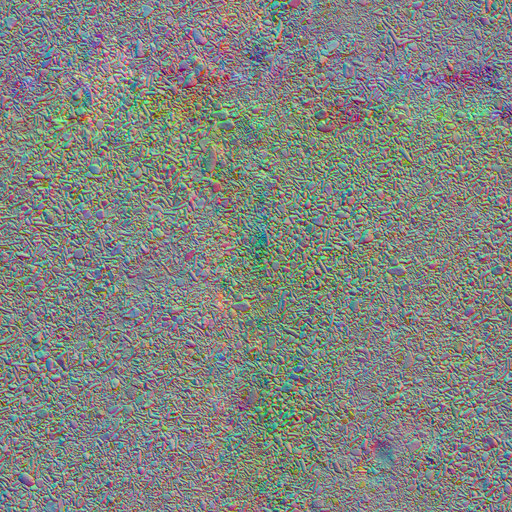
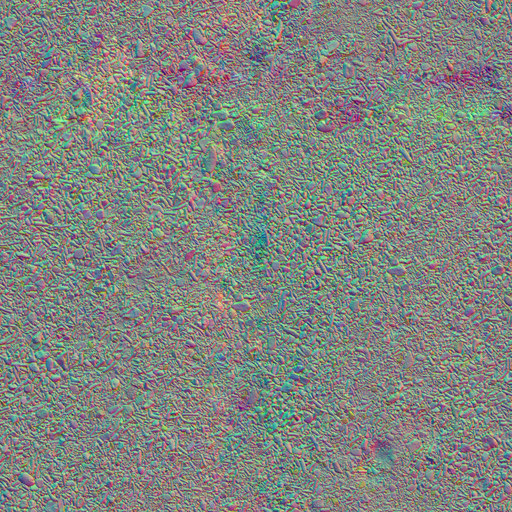
Break up repeating sand patches and soften distant caustics

diff --git a/demos/broadside/src/render/landfallMaterials/terrain.ts b/demos/broadside/src/render/landfallMaterials/terrain.ts
@@ -52,6 +52,11 @@ class GroundScans extends MaterialPluginBase {
         vec2 bend = vec2(sin(p.z * .36 + p.x * .14), sin(p.x * .32 - p.z * .13)) * .11;
         vec2 ground = p.xz + bend;
         vec3 beach = texture2D(beachScan, ground * .46).rgb;
+        mat2 turn = mat2(.6,.8,-.8,.6);
+        vec3 secondBeach = texture2D(beachScan, turn * ground * .33 + 1.73).rgb;
+        secondBeach.rg = (secondBeach.rg - .5) * turn + .5;
+        float borrow = .38 + .21*sin(p.x*.31 + .7*sin(p.z*.36));
+        beach = mix(beach, secondBeach, borrow);
         vec3 turf = texture2D(turfScan, ground * .66).rgb;
         vec3 snow = texture2D(snowScan, ground * .27).rgb;
         // Three planes keep fractures legible even on vertical quarry faces.
@@ -63,7 +68,8 @@ class GroundScans extends MaterialPluginBase {
         vec3 rock = weights.x * rockX + weights.y * rockY + weights.z * rockZ;
         vec4 w = vGroundCover;
         float tone = dot(w, vec4(beach.b, turf.b, rock.b, snow.b) - .5);
-        baseColor.rgb *= 1. + tone * 1.65;
+        float closeDetail = 1. - smoothstep(8., 52., length(vEyePosition.xyz-p));
+        baseColor.rgb *= 1. + tone * (.74 + .82 * closeDetail);
         // Project normal-map slopes onto the mesh tangent plane; the macro
         // shape controls snow cover and shadows, the scans catch grazing light.
         vec2 grain = w.x * (beach.rg - .5) * .48 + w.y * (turf.rg - .5) * .82

diff --git a/demos/broadside/src/render/landfallWater.ts b/demos/broadside/src/render/landfallWater.ts
@@ -67,7 +67,7 @@ void main() {
   water=mix(water,bottom,sand*.62);
   float caustic=(1.-smoothstep(.055,.26,cells(p*2.2,clock)))*smoothstep(.04,.45,d)
                *exp(-max(d,0.)*.85)*near;
-  water+=shallow*caustic*.35*(1.-.91*night);
+  water+=shallow*caustic*.24*(1.-smoothstep(12.,80.,dist))*(1.-.91*night);
   water=mix(water,horizon,fresnel*.76);
   vec3 h=normalize(v+sunDirection);
   float facing=max(0.,dot(h,n));
